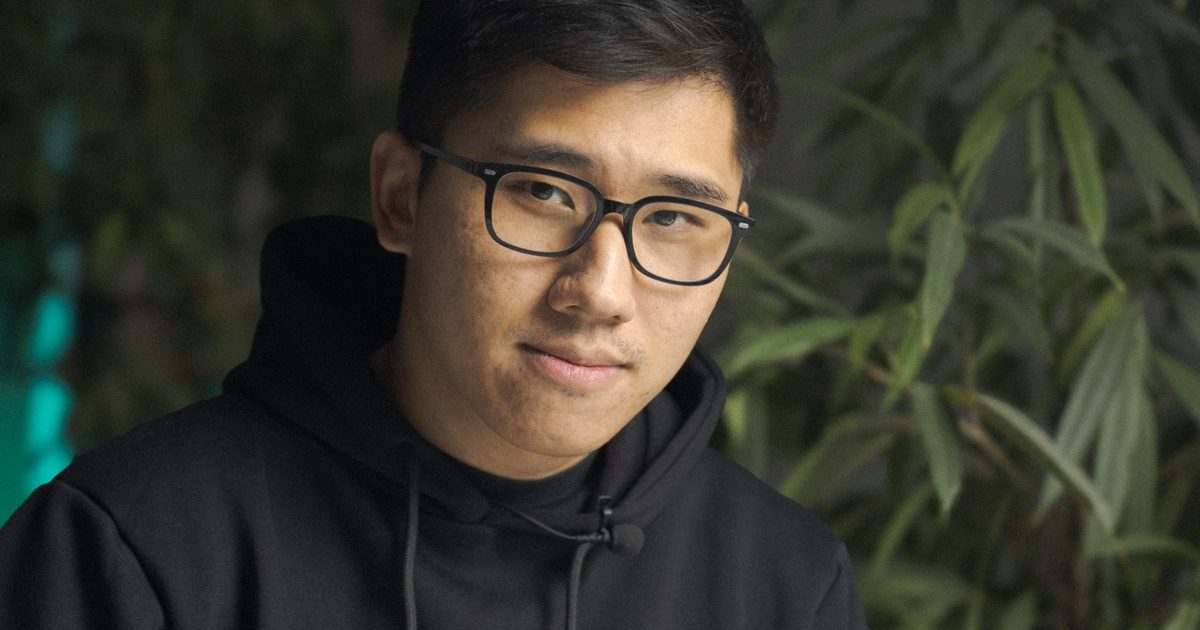
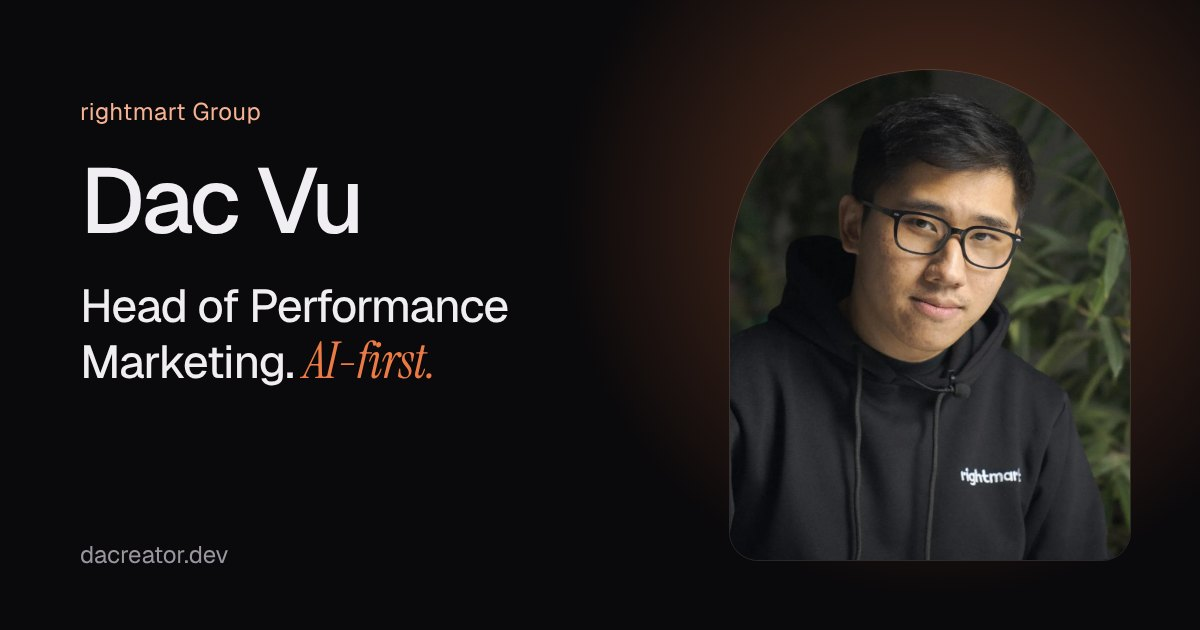
SEO: Canonical, hreflang, JSON-LD, OG-Bild, kürzere Descriptions, Sitemap-i18n (#10)
Claude-Session: https://claude.ai/code/session_018txveor7D588TQDrvfwfqv

diff --git a/src/i18n/ui.ts b/src/i18n/ui.ts
@@ -15,7 +15,7 @@ const de = {
 
   // Meta
   'meta.title': 'Dac Vu | Head of Performance Marketing',
-  'meta.description': 'Dac Vu ist Head of Performance Marketing bei der rightmart Group. AI-first, Direct Response, Tracking und eigene Tools. Von niedrigem 7-stelligen Umsatz auf 60 Mio Jahresumsatz.',
+  'meta.description': 'Dac Vu, Head of Performance Marketing bei rightmart. AI-first, Direct Response, Tracking und eigene Tools. Von niedrigem 7-stelligen Umsatz auf 60 Mio.',
 
   // Hero
   'hero.title': 'Marketing, das sich *selbst* misst.',
@@ -244,7 +244,7 @@ const en: Dict = {
   'nav.skip': 'Skip to content',
 
   'meta.title': 'Dac Vu | Head of Performance Marketing',
-  'meta.description': 'Dac Vu is Head of Performance Marketing at rightmart Group. AI-first, direct response, tracking and self-built tools. From low seven-figure revenue to 60 million a year.',
+  'meta.description': 'Dac Vu, Head of Performance Marketing at rightmart. AI-first, direct response, tracking and self-built tools. From low seven-figure revenue to 60 million.',
 
   'hero.title': 'Marketing that *measures* itself.',
   'hero.lead': 'I am **Dac Vu**, Head of Performance Marketing at rightmart Group. From low seven-figure revenue to 60 million a year through performance marketing.',
